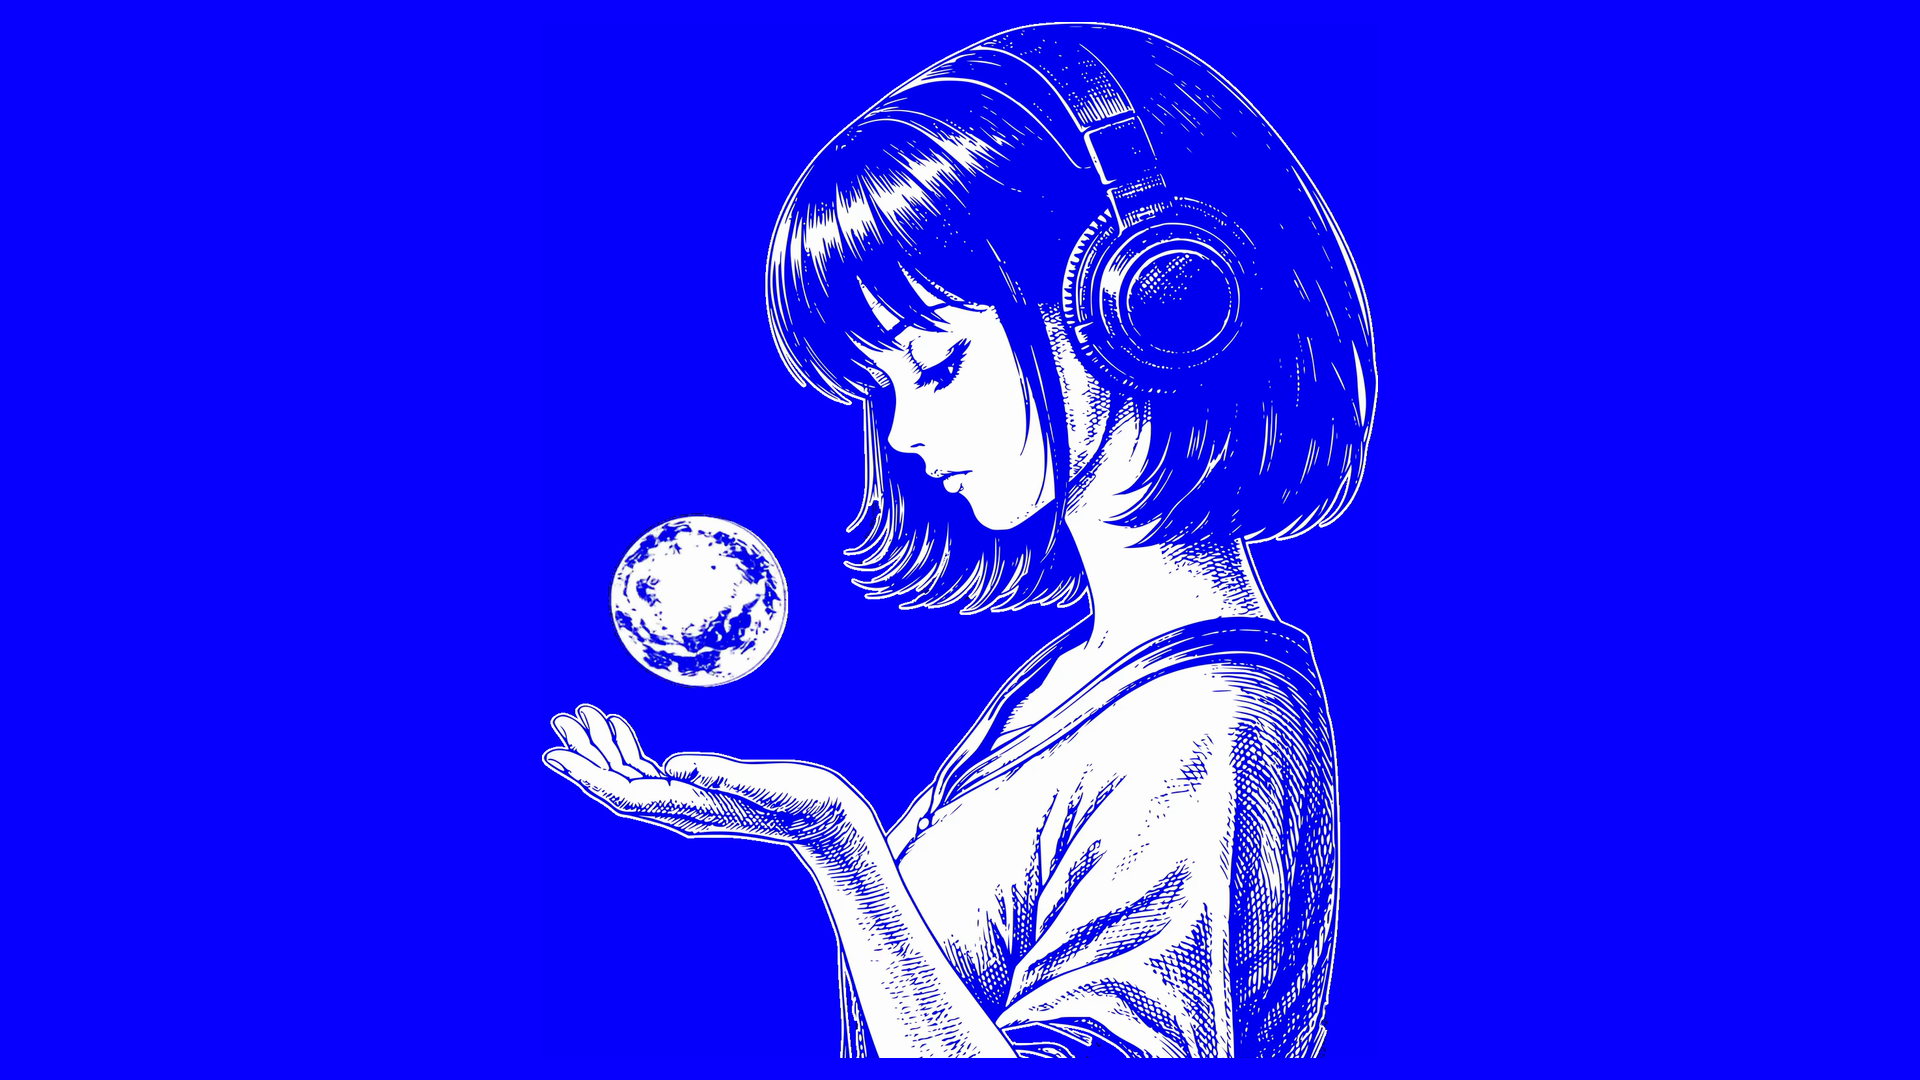
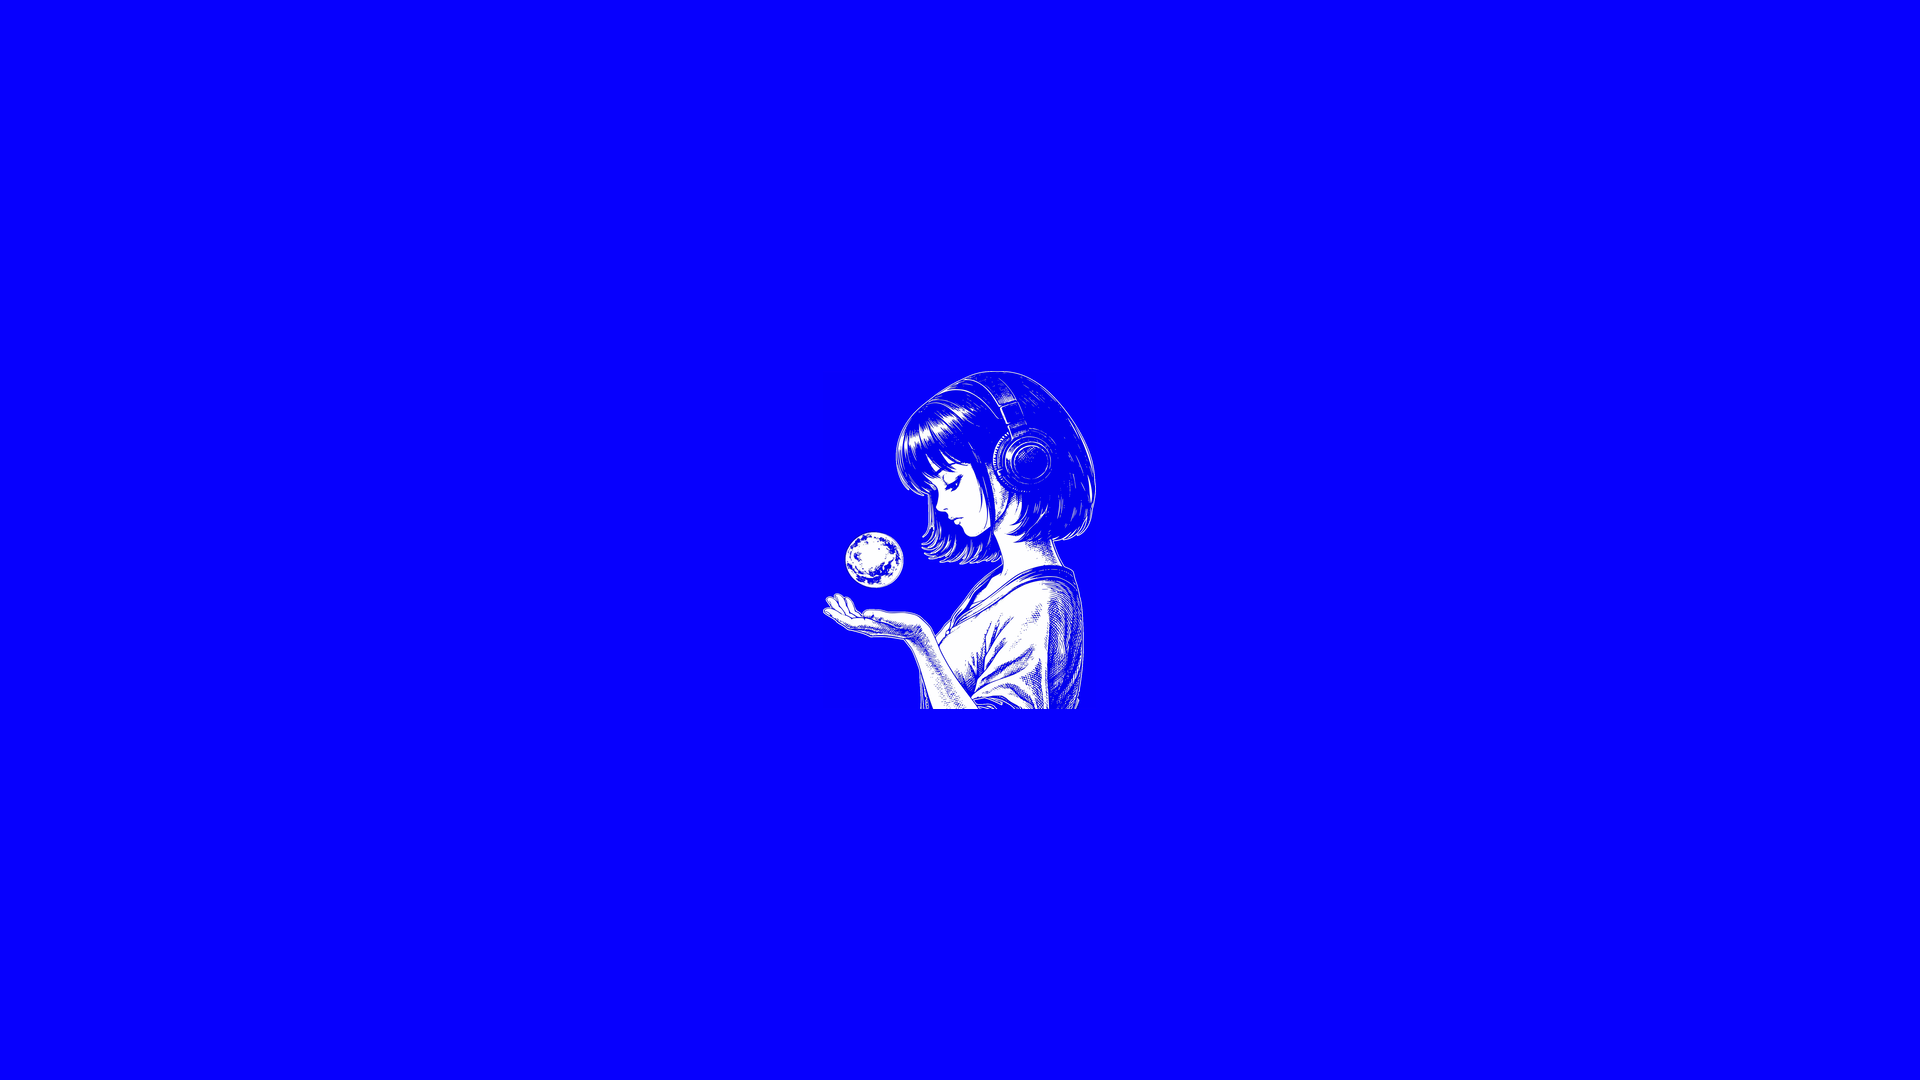
fix: match standalone Hermes display size

Changed region(s): [[0.2812, 0.0, 0.7188, 0.9778]]

diff --git a/package/contents/ui/config.qml b/package/contents/ui/config.qml
@@ -33,8 +33,8 @@ ColumnLayout {
             cache: false
             smooth: true
             fillMode: Image.PreserveAspectFit
-            width: Math.min(parent.width * 0.92, parent.height * 0.94 * 1284 / 1590)
-            height: width * 1590 / 1284
+            height: Math.min(338, parent.height * 0.72)
+            width: height * 1284 / 1590
         }
 
         Rectangle {

diff --git a/package/contents/ui/main.qml b/package/contents/ui/main.qml
@@ -18,8 +18,8 @@ WallpaperItem {
             cache: false
             smooth: true
             fillMode: Image.PreserveAspectFit
-            width: Math.min(parent.width * 0.94, parent.height * 0.96 * 1284 / 1590)
-            height: width * 1590 / 1284
+            height: Math.min(338, parent.height * 0.72)
+            width: height * 1284 / 1590
         }
     }
 }

diff --git a/README.md b/README.md
@@ -11,7 +11,8 @@ An unofficial KDE Plasma 6 animated wallpaper plugin based on the rotating orb i
 ## Features
 
 - faithful electric-blue and white Hermes website styling;
-- 1284×1590 software-decoded animation;
+- the full illustration is displayed at a maximum height of 338 pixels, matching the combined Parrot + Hermes theme;
+- 1284×1590 software-decoded source animation;
 - seamless 2.8-second loop;
 - self-contained package with no network requests after installation;
 - avoids GPU video-decoder artifacts by using Qt Quick `AnimatedImage` playback.
@@ -24,7 +25,7 @@ An unofficial KDE Plasma 6 animated wallpaper plugin based on the rotating orb i
 
 ```bash
 ./build.sh
-kpackagetool6 --type Plasma/Wallpaper --install dist/hermes-orb-animation-1.0.1.plasmoid
+kpackagetool6 --type Plasma/Wallpaper --install dist/hermes-orb-animation-1.0.2.plasmoid
 ```
 
 To select it directly for the lock screen: